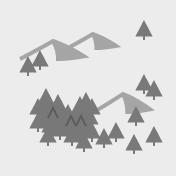
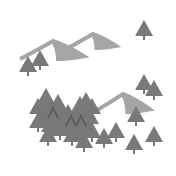
color mountains

diff --git a/src/renderer.ts b/src/renderer.ts
@@ -38,6 +38,115 @@ function mountainHexTextureUrl(key: string): string {
   return MOUNTAIN_HEX_TEXTURES[h % MOUNTAIN_HEX_TEXTURES.length];
 }
 
+/** Same hex fill mapping as conquered cells (`localPlayer` = “your” palette). */
+function hexTerrainFillForOwner(owner: Owner, localPlayer: Owner, c: Colors): string {
+  return owner === localPlayer ? c.hexPlayer : c.hexAi;
+}
+
+/** Resolved mountain tint faction (visual-only). */
+type MountainTerritoryCategory = 'p1' | 'p2' | 'neutral';
+
+function mountainTerritoryCategoryFromCounts(nP1: number, nP2: number, nNeutral: number): MountainTerritoryCategory {
+  const max = Math.max(nP1, nP2, nNeutral);
+  if (max <= 2) return 'neutral';
+  const atMax = (nP1 === max ? 1 : 0) + (nP2 === max ? 1 : 0) + (nNeutral === max ? 1 : 0);
+  if (atMax !== 1) return 'neutral';
+  if (nP1 === max) return 'p1';
+  if (nP2 === max) return 'p2';
+  return 'neutral';
+}
+
+function countMountainNeighborSides(
+  state: GameState,
+  col: number,
+  row: number,
+  mountainSet: Set<string>,
+  mountainCategory: Map<string, MountainTerritoryCategory>,
+): { nP1: number; nP2: number; nNeutral: number } {
+  let nP1 = 0;
+  let nP2 = 0;
+  let nNeutral = 0;
+  for (const [nc, nr] of getNeighbors(col, row, COLS, ROWS)) {
+    const nk = `${nc},${nr}`;
+    if (mountainSet.has(nk)) {
+      const mc = mountainCategory.get(nk) ?? 'neutral';
+      if (mc === 'p1') nP1 += 1;
+      else if (mc === 'p2') nP2 += 1;
+      else nNeutral += 1;
+      continue;
+    }
+    const hs = state.hexStates[nk];
+    if (!hs) nNeutral += 1;
+    else if (hs.owner === PLAYER) nP1 += 1;
+    else nP2 += 1;
+  }
+  return { nP1, nP2, nNeutral };
+}
+
+/**
+ * Visual-only mountain tints: same win/tie rules per hex, but adjacent mountains contribute their
+ * **current** resolved category so color propagates along ridges (Jacobi iteration to fixed point).
+ */
+function computeMountainTerritoryFillByKey(
+  state: GameState,
+  mountainSet: Set<string>,
+  localPlayer: Owner,
+  c: Colors,
+): Map<string, string> {
+  const out = new Map<string, string>();
+  if (mountainSet.size === 0) return out;
+
+  const keys = [...mountainSet];
+  const passableOnly = new Map<string, MountainTerritoryCategory>();
+  for (const key of keys) {
+    const [col, row] = key.split(',').map(Number);
+    let nP1 = 0;
+    let nP2 = 0;
+    let nNeutral = 0;
+    for (const [nc, nr] of getNeighbors(col, row, COLS, ROWS)) {
+      const nk = `${nc},${nr}`;
+      if (mountainSet.has(nk)) continue;
+      const hs = state.hexStates[nk];
+      if (!hs) nNeutral += 1;
+      else if (hs.owner === PLAYER) nP1 += 1;
+      else nP2 += 1;
+    }
+    passableOnly.set(key, mountainTerritoryCategoryFromCounts(nP1, nP2, nNeutral));
+  }
+
+  let prev = passableOnly;
+  const MAX_ITER = 64;
+  for (let iter = 0; iter < MAX_ITER; iter++) {
+    const next = new Map<string, MountainTerritoryCategory>();
+    for (const key of keys) {
+      const [col, row] = key.split(',').map(Number);
+      const { nP1, nP2, nNeutral } = countMountainNeighborSides(state, col, row, mountainSet, prev);
+      next.set(key, mountainTerritoryCategoryFromCounts(nP1, nP2, nNeutral));
+    }
+    let stable = true;
+    for (const key of keys) {
+      if (prev.get(key) !== next.get(key)) {
+        stable = false;
+        break;
+      }
+    }
+    if (stable) break;
+    prev = next;
+  }
+
+  for (const key of keys) {
+    const cat = prev.get(key) ?? 'neutral';
+    const fill =
+      cat === 'p1'
+        ? hexTerrainFillForOwner(PLAYER, localPlayer, c)
+        : cat === 'p2'
+          ? hexTerrainFillForOwner(AI, localPlayer, c)
+          : c.hexNeutral;
+    out.set(key, fill);
+  }
+  return out;
+}
+
 /** Margin in px between SVG edge and board origin (must match {@link initRenderer}). */
 export const BOARD_MARGIN = 100;
 
@@ -913,6 +1022,8 @@ export function renderState(
   unitLayer.innerHTML = '';
 
   const mountainSet = new Set(state.mountainHexes ?? []);
+  /** Per mountain key: territory-adjacency tint after propagating along mountain adjacency. */
+  const mountainTerritoryFillByKey = computeMountainTerritoryFillByKey(state, mountainSet, localPlayer, c);
   const unitByHex = new Map<string, Unit>();
   for (const u of state.units) unitByHex.set(`${u.col},${u.row}`, u);
 
@@ -1032,7 +1143,7 @@ export function renderState(
       let stroke = 'transparent';
 
       if (isMountain) {
-        fill = c.hexNeutral;
+        fill = mountainTerritoryFillByKey.get(key) ?? c.hexNeutral;
       } else if (isSelectedHex) {
         fill = c.hexSelected;
       } else if (isZoc) {
@@ -1244,6 +1355,16 @@ export function renderState(
         clipped.appendChild(upright);
       } else {
         clipped.appendChild(img);
+      }
+      const mtnFill = mountainTerritoryFillByKey.get(key) ?? c.hexNeutral;
+      if (mtnFill !== c.hexNeutral) {
+        const tint = svgEl('polygon');
+        tint.setAttribute('points', hexPoints(x, y));
+        tint.setAttribute('fill', mtnFill);
+        tint.setAttribute('opacity', '0.42');
+        tint.setAttribute('pointer-events', 'none');
+        tint.setAttribute('style', 'mix-blend-mode: multiply');
+        clipped.appendChild(tint);
       }
       mountainLayer.appendChild(clipped);
     }
